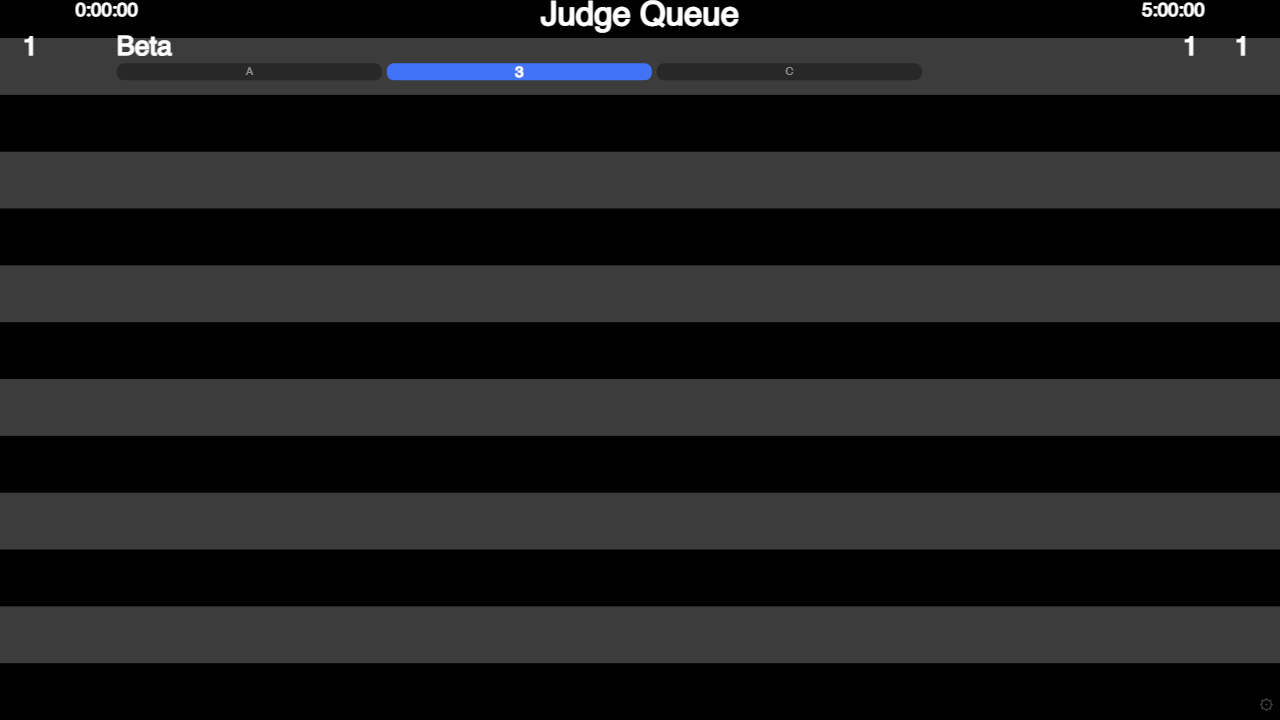
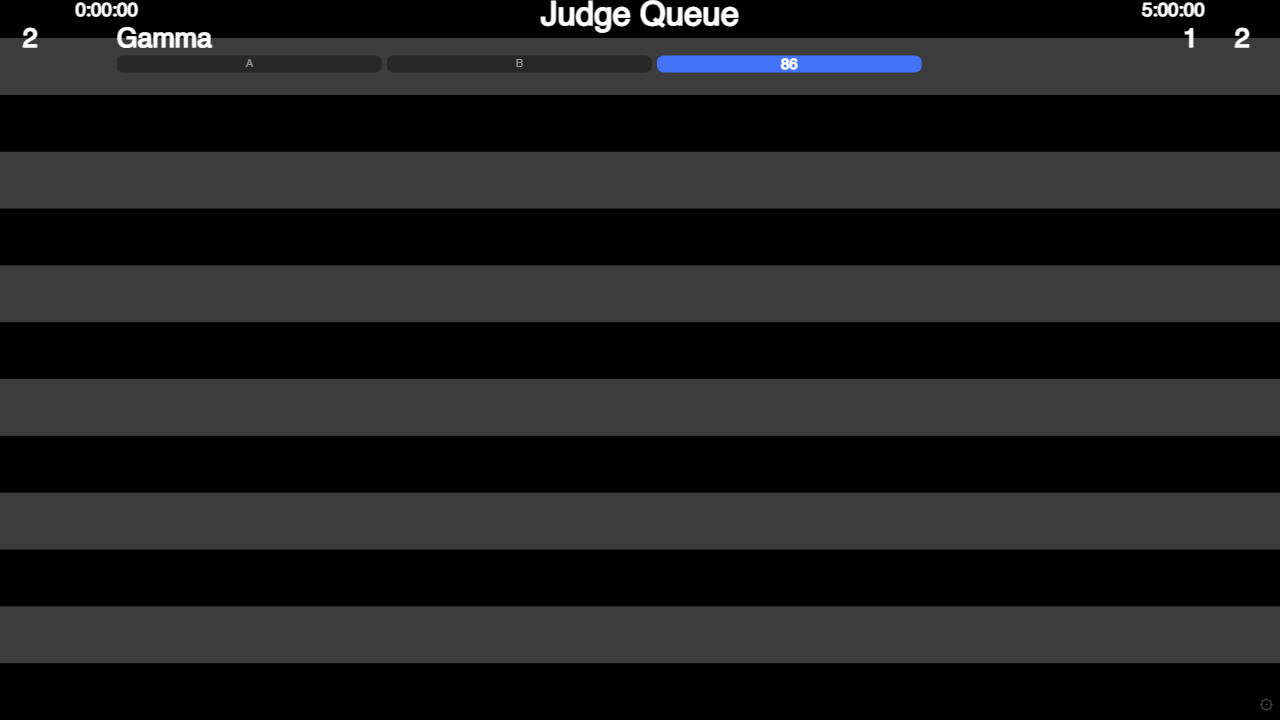
feat: 判题队列对齐 Java——保留时长实例化 + 同 id 对象刷新

diff --git a/src/judge-queue.js b/src/judge-queue.js
@@ -112,10 +112,14 @@ export class JudgeQueue {
     this.records = [];
     this.reservedRows = 0;
     this.opts = opts;
+    // Java: 这两个是实例字段，外部可调
+    this.timeToKeepFailed = opts.timeToKeepFailed ?? TIME_TO_KEEP_FAILED;
+    this.timeToKeepSolved = opts.timeToKeepSolved ?? TIME_TO_KEEP_SOLVED;
   }
 
   /** 新提交进队（JudgePresentation.createSubmissionRecord） */
   add(submission) {
+    // Java handleSubmission：已存在就刷新引用，不新建
     const existing = this.records.find(r => r.submission.id === submission.id);
     if (existing) { existing.submission = submission; return existing; }
 
@@ -135,6 +139,13 @@ export class JudgeQueue {
     return sr;
   }
 
+  /** 对应 Java listener：同一 id 的对象更新时刷新记录 */
+  refresh(submission) {
+    const r = this.records.find(x => x.submission.id === submission.id);
+    if (r) { r.submission = submission; return true; }
+    return false;
+  }
+
   /** JudgePresentation.updateTargets */
   updateTargets(force) {
     const { judged, solved, frozen } = this.opts;
@@ -148,9 +159,9 @@ export class JudgeQueue {
       let target = 0;
       if (this.reservedRows === 0) {
         target = count;
-        if (sr.action === Action.MOVE_UP && sr.actionAge > TIME_TO_KEEP_SOLVED) {
+        if (sr.action === Action.MOVE_UP && sr.actionAge > this.timeToKeepSolved) {
           target = -TEAMS_PER_SCREEN;
-        } else if (sr.action === Action.MOVE_DOWN && sr.actionAge > TIME_TO_KEEP_FAILED) {
+        } else if (sr.action === Action.MOVE_DOWN && sr.actionAge > this.timeToKeepFailed) {
           target = TEAMS_PER_SCREEN * 2;
         } else if (sr.action === Action.MOVE_OUT && sr.actionAge > TIME_TO_FADE_RECENT / 3) {
           // 滑出中不占行
@@ -159,7 +170,7 @@ export class JudgeQueue {
         }
       } else {
         if (sr.action === Action.MOVE_UP) {
-          if (sr.actionAge > TIME_TO_KEEP_SOLVED || numSolved > this.reservedRows) {
+          if (sr.actionAge > this.timeToKeepSolved || numSolved > this.reservedRows) {
             target = -TEAMS_PER_SCREEN;
             numSolved--;
           } else target = count++;
@@ -212,7 +223,7 @@ export class JudgeQueue {
   alphaOf(sr) {
     if (sr.action === Action.MOVE_DOWN) {
       return Math.min(1.0, Math.max(0.1,
-        1.0 - (sr.actionAge - TIME_TO_KEEP_FAILED * 0.75) * 2.0 / TIME_TO_KEEP_FAILED));
+        1.0 - (sr.actionAge - this.timeToKeepFailed * 0.75) * 2.0 / this.timeToKeepFailed));
     }
     if (sr.action === Action.MOVE_OUT) {
       return Math.max(0, 1.0 - sr.actionAge / TIME_TO_FADE_RECENT);

diff --git a/src/app.js b/src/app.js
@@ -340,6 +340,7 @@ function renderJudge(pane) {
 
   for (const sub of M.submissions.values()) {
     if (!judgeSeen.has(sub.id)) { judgeSeen.add(sub.id); q.add(sub); }
+    else q.refresh(sub);          // Java listener：对象更新也走 handleSubmission
   }
 
   const dt = Math.min(200, Math.max(0, now - judgeLast));
